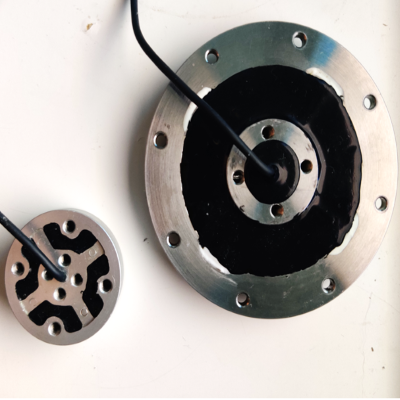
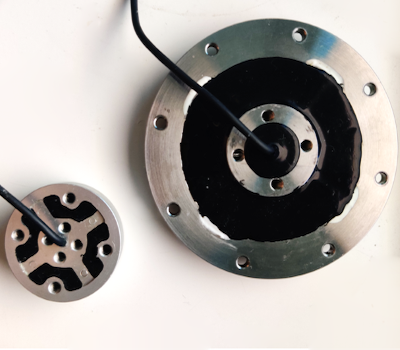
revert README change, squared out aspect ratio for sensor

Changed region(s): [[0.96, 0.7714, 1.0, 1.0], [0.99, 0.0, 1.0, 0.0857], [0.21, 0.0571, 0.24, 0.0857]]

diff --git a/Readme.md b/Readme.md
@@ -5,7 +5,7 @@
 
 ### JSON schema
 The json file must have the following attributes:
-   - `title (string)`: name of the actuator
+   - `title (string)`: name and brand of the actuator
    - `price (number)`: price of the actuator
    - `stock (number)`: amount of the actuator in inventory
    - `description (string)`: description of actuator shown on the actuator's own product page
@@ -16,8 +16,7 @@ The json file must have the following attributes:
 ### Example JSON
 ```
 {
-    "title": "AK10-9 V2",
-    "brand": "T-Motor",
+    "title": "T-Motor AK10-9 V2",
     "price": 500,
     "stock": 300,
     "description": "The AK10-9 V2 is a cost-effective, high performance actuator that ...",
